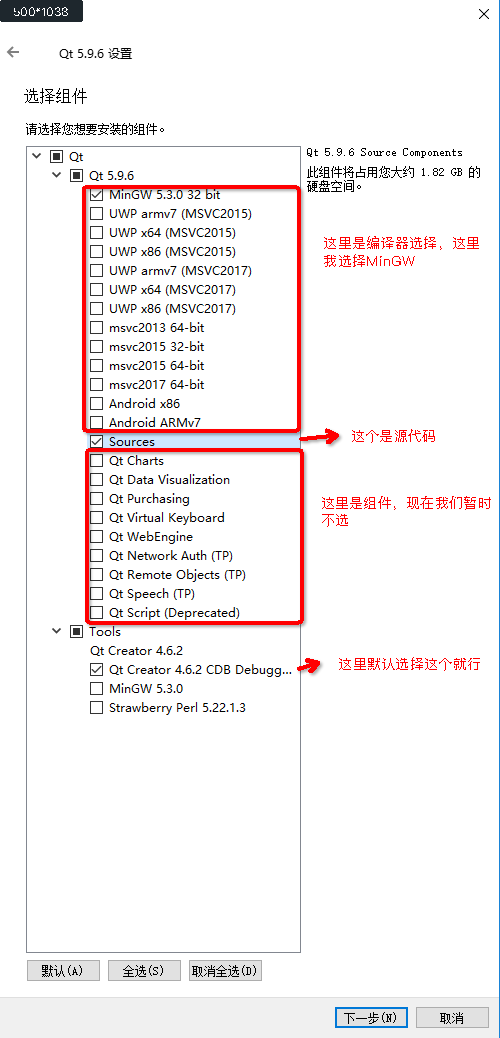
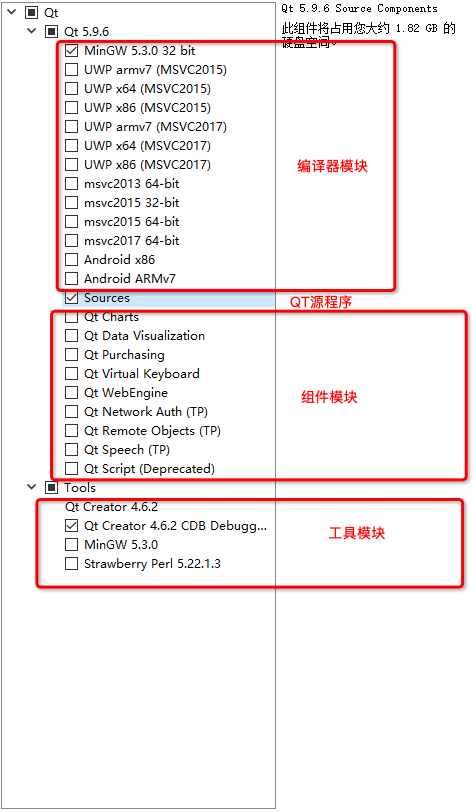
test

diff --git a/docment/细节分支/1.下载安装QT.md b/docment/细节分支/1.下载安装QT.md
@@ -41,7 +41,33 @@
 
 ![图6](../../image/detail/install2.png)
 
-> 这里稍微介绍一下编译器模块
+> 编译器模块
 
-* MinGW编译器模块，具体概念你们自己百度，这里我只说QT相关的，该编译器允许你在各个平台编译你的QT程序，真正可以做到一个项目编译多个平台，而不会出现奇奇怪怪的bug，本项目我们选该编译器，就是为了方便同时编译mac和window平台,不过这里有个**需要注意**的,如果你的项目中用到webview
+* MinGW编译器模块，具体概念你们自己百度，这里我只说QT相关的，该编译器允许你在各个平台编译你的QT程序，真正可以做到一个项目编译多个平台，而不会出现奇奇怪怪的bug，本项目我们选该编译器，就是为了方便同时编译mac和window平台,不过这里有个**需要注意**的,如果你的项目中用到webview(QT自带的webview，即WebenGine)，那window系统的，只能下载msvc编译器了，因为从4.几(忘记是几了)版本开始就不支持了
 
+* UWP编译器模块，UWP 是 Windows 10 中 Universal Windows Platform 的简称，有不同编译器类型的 UWP。没用过，这里就不说了
+
+* MSVC编译器模块，具体概念也是你们自己去百度，这里我也只说QT相关的，该编译器我们只能用于编译window系统，这里**需要注意**的，要安装 MSVC 编译器的模块，需要计算机上已经安装相应版本的 Visual Studio，比如你勾选了msvc2015，那你就需要在电脑里下载安装visual studio 2015，这里我就不做msvc教程了，无非是去官网下载个visual studio，如果出现什么配置问题(一般不会)，自己再想办法解决吧
+
+* Android，用于编程android的，这里要说的是，在我们教程中使用到的qt quick，其本意就是为了开发移动端的，所以你们如果有兴趣，可以自己去研究研究
+
+![图6](../../image/detail/install3.png)
+
+> 组件模块
+
+* Qt Charts 是二维图表
+* Qt Data Visulization 是三维图表
+* Qt Purchasing 是提供了一套商店购买API，可以将你的app发布到这些应用商店。支持iOS中的App Store和Android中Google Play。
+* Qt Virtual Keyboard 提供了一个可扩展的虚拟键盘，支持触屏
+* Qt WebEngine 提供webview的
+* Qt Network Auth(TP)，Qt Remote Objects(TP)，Qt Speech(TP)，括号里的 TP 表示技术预览（Technology Preview）
+* Qt Scritp（Deprecated）是脚本模块，括号里的“Deprecated”表示这是已经过时的模块
+
+![图6](../../image/detail/install4.png)
+
+> 工具模块
+
+* MinGW 5.3.0 是 MinGW 编译工具链
+* Strawberry Perl 是一个 Perl 语言工具
+
+![图6](../../image/detail/install5.png)
